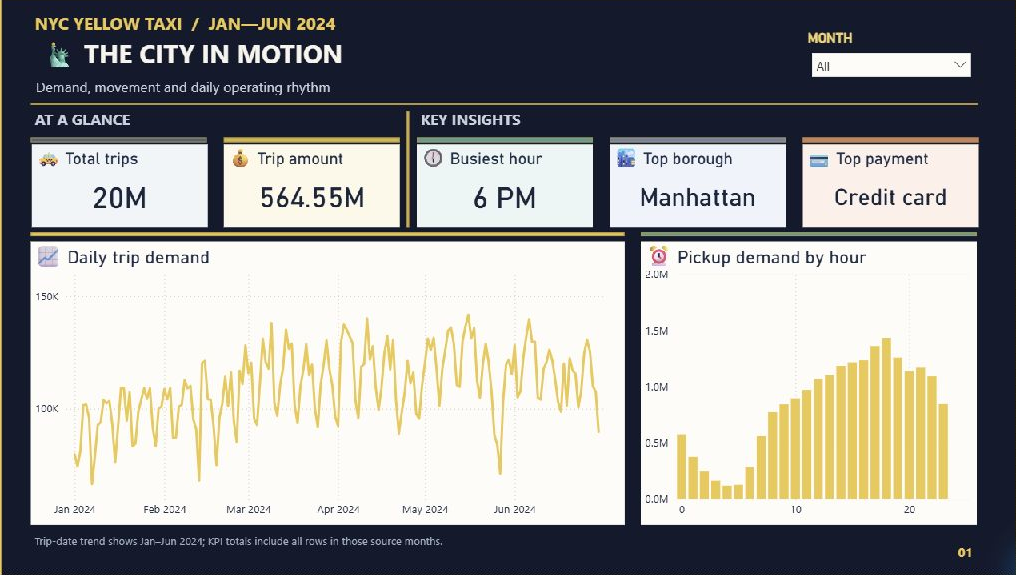
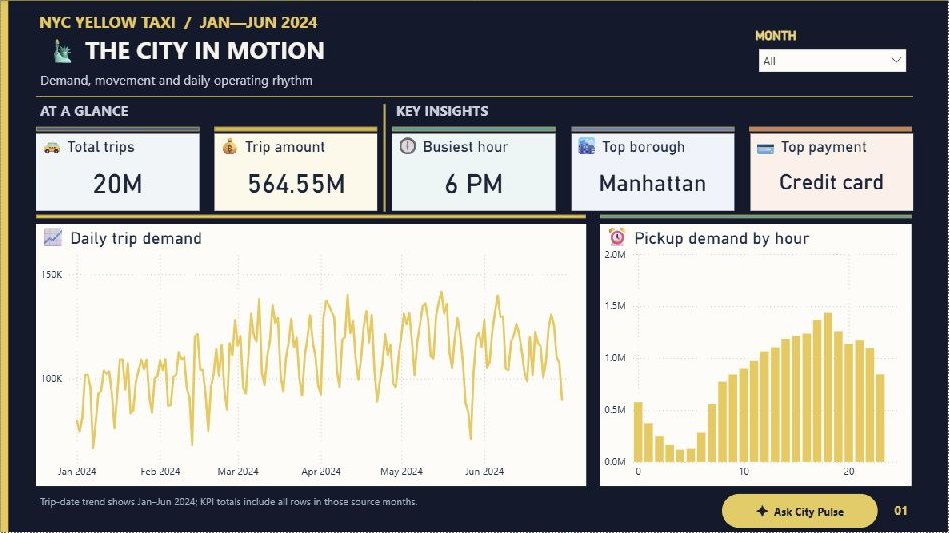
Document Power BI chat with report screenshots

diff --git a/README.md b/README.md
@@ -68,17 +68,21 @@ Gold Parquet is the source for the five PostgreSQL serving marts; a separate, co
 
 ### Power BI — City Pulse
 
-The separate, three-page [Power BI Desktop project](powerbi/NYC%20Taxi%20-%20City%20Pulse%20Showcase.pbip) presents the same local mobility data through an overview, pickup geography, and fares/payments. It includes month filtering, KPI insights, demand trends, a pickup-zone map, and a payment-method donut. This is an editable `.pbip` project, not a deployed Power BI service report.
+The separate, three-page [Power BI Desktop project](powerbi/NYC%20Taxi%20-%20City%20Pulse%20Showcase.pbip) presents the same local mobility data through an overview, pickup geography, and fares/payments. It includes month filtering, KPI insights, demand trends, a pickup-zone map, and a payment-method donut. This is an editable `.pbip` project, not a deployed Power BI service report. Page 1 also has an **Ask City Pulse** button that opens a local, in-report data chat.
 
-City Pulse — overview and demand:
+Page 1 — overview and demand, with the Ask City Pulse button at the bottom right:
 
-![Power BI City Pulse overview and demand](docs/images/powerbi-city-pulse-overview.png)
+![Power BI City Pulse overview with Ask City Pulse button](docs/images/powerbi-city-pulse-overview.png)
 
-Boroughs & Zones — pickup geography:
+Page 1 — chat popup opened from that button. In this January–June 2024 snapshot, it answers a question about June cash payments; asking does not change the report's charts or filters:
+
+![Ask City Pulse in-report chat answering a June cash-share question](docs/images/powerbi-city-pulse-chat.png)
+
+Page 2 — Boroughs & Zones, pickup geography:
 
 ![Power BI boroughs and pickup zones](docs/images/powerbi-city-pulse-geography.png)
 
-Fare & Payment — trip amounts and payment mix:
+Page 3 — Fare & Payment, trip amounts and payment mix:
 
 ![Power BI fares and payment methods](docs/images/powerbi-city-pulse-fares.png)
 

diff --git a/powerbi/README.md b/powerbi/README.md
@@ -2,7 +2,7 @@
 
 The [City Pulse Showcase project](NYC%20Taxi%20-%20City%20Pulse%20Showcase.pbip) is the portable, three-page Power BI Desktop source. Keep the `.pbip`, `.Report`, and `.SemanticModel` items together: the project and report definitions use relative references between these siblings. On Windows, open it through [Open City Pulse.cmd](Open%20City%20Pulse.cmd). The launcher makes a separate, Git-ignored working copy under `powerbi/.local/p/`, sets its CSV path for your PC, and opens that copy. It never overwrites an existing working report or its imported-data cache.
 
-The report uses four aggregated PostgreSQL serving marts exported as local CSVs: `daily_trip_metrics`, `hourly_demand`, `payment_type_summary`, and `pickup_zone_performance`. The export also includes `takeaway_breakdown.csv` for the local chat assistant's borough-scoped hour and payment answers. It does not contain the underlying trip-level TLC files. The three page screenshots in the root README show the locally loaded January–June 2024 snapshot; values can change after a refresh with different data.
+The report uses four aggregated PostgreSQL serving marts exported as local CSVs: `daily_trip_metrics`, `hourly_demand`, `payment_type_summary`, and `pickup_zone_performance`. The export also includes `takeaway_breakdown.csv` for the local chat assistant's borough-scoped hour and payment answers. It does not contain the underlying trip-level TLC files. The three page screenshots and chat example in the root README show the locally loaded January–June 2024 snapshot; values can change after a refresh with different data.
 
 ## Open and refresh locally
 
